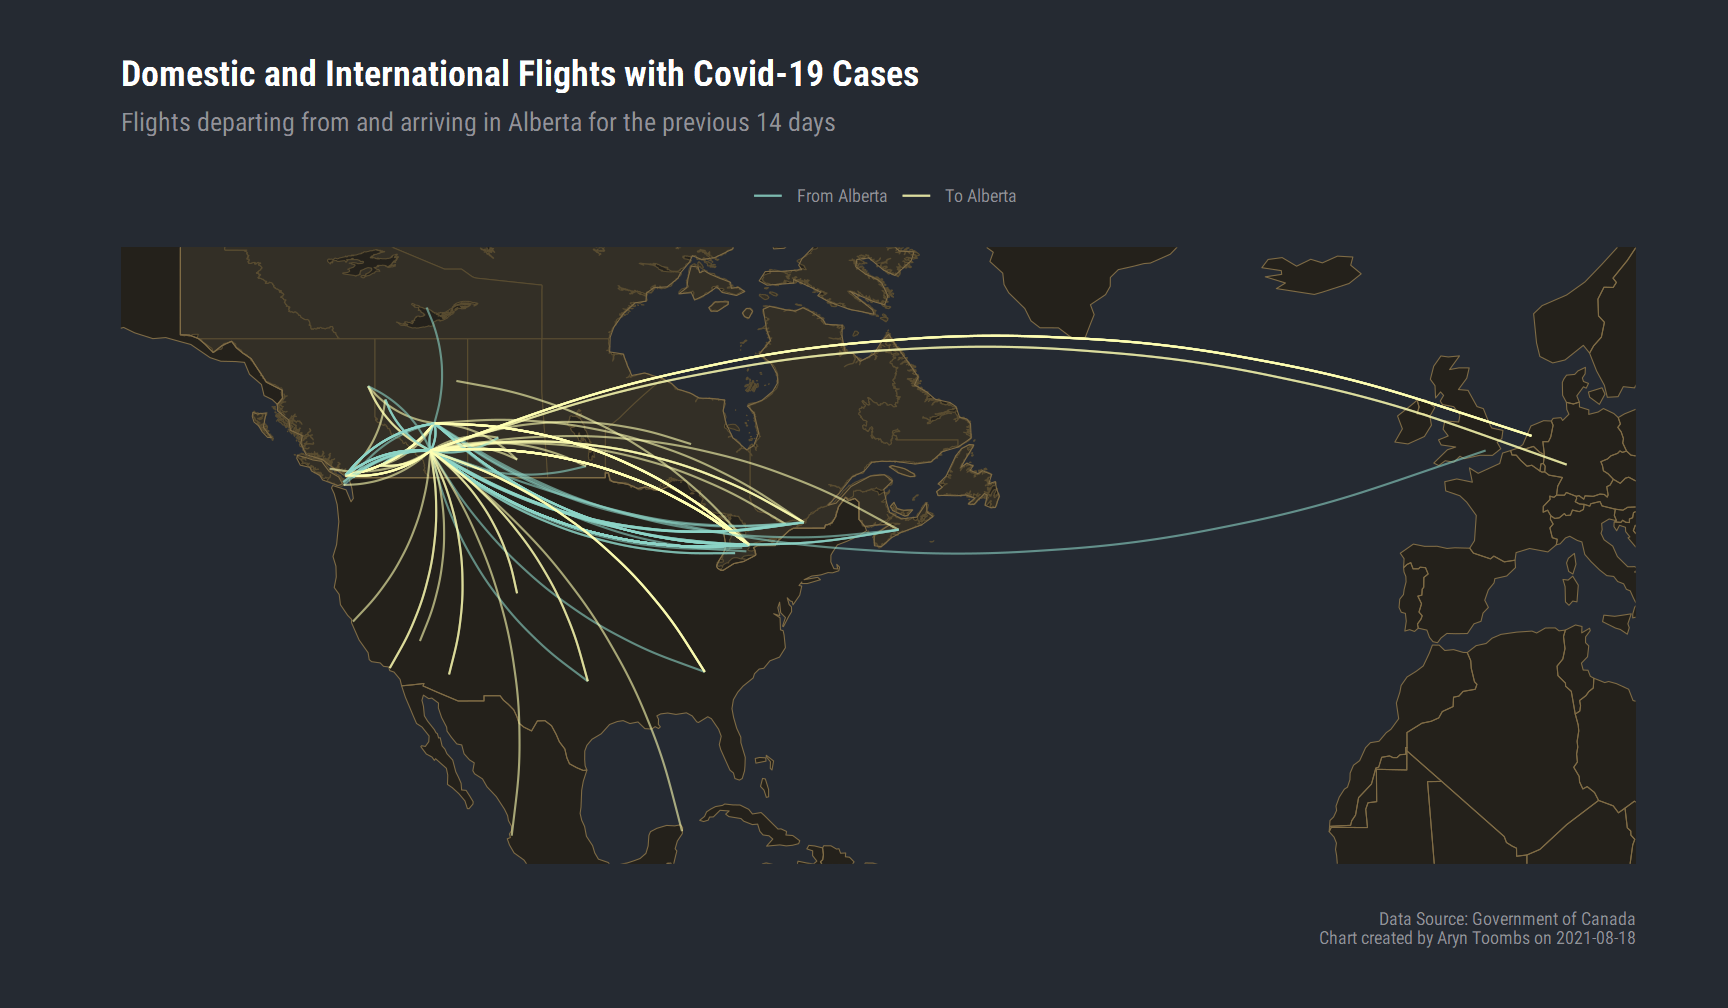
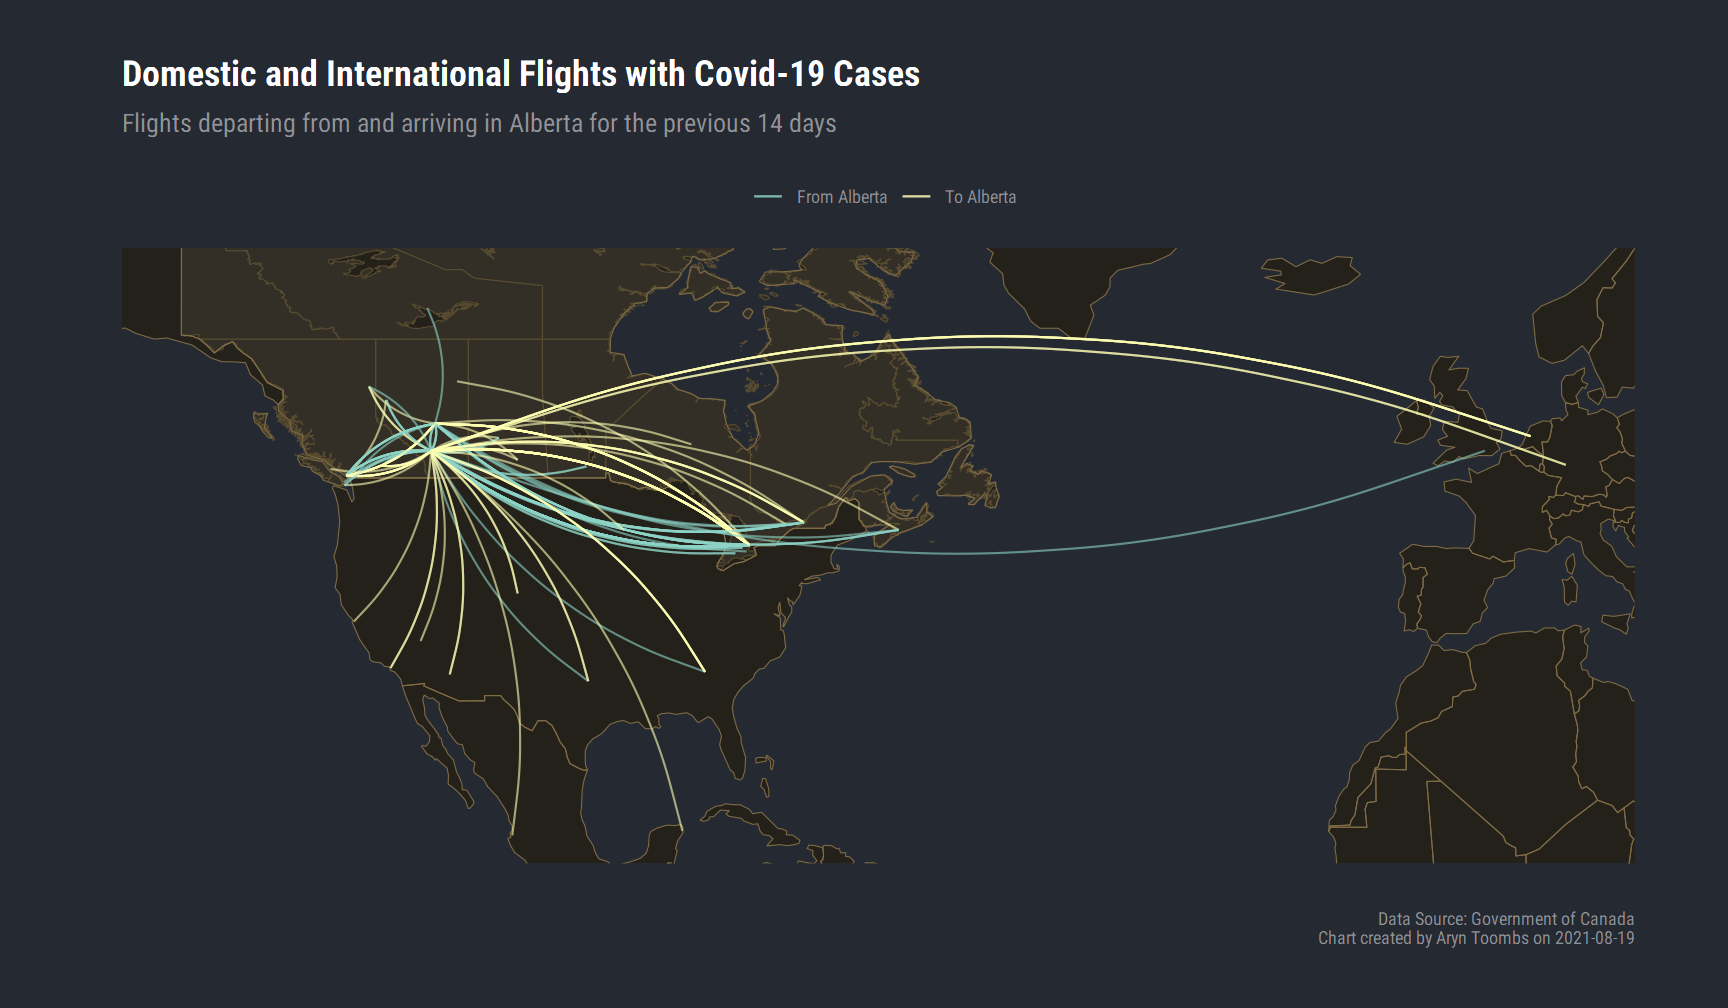
flights

diff --git a/index.html b/index.html
@@ -245,7 +245,7 @@
         Domestic Flights to Alberta
       </div>
       <div class="row box-bottom justify-content-center">
-        <h4>59</h4>
+        <h4>60</h4>
       </div>
     </div>
 
@@ -254,7 +254,7 @@
         Domestic Flights from Alberta
       </div>
       <div class="row box-bottom justify-content-center">
-        <h4>87</h4>
+        <h4>89</h4>
       </div>
     </div>
 
